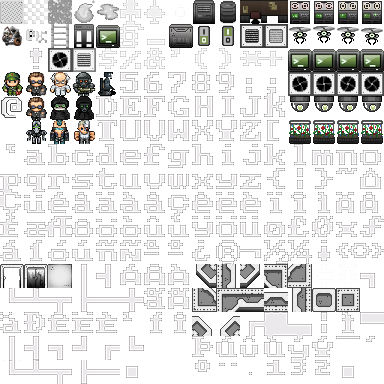
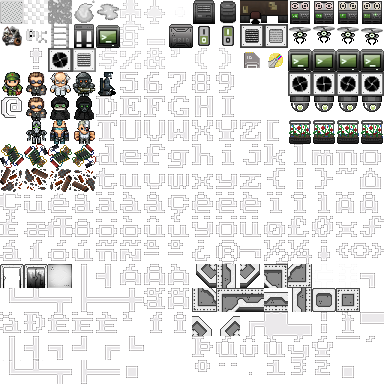
debris and key graphics

Changed region(s): [[0.0, 0.375, 0.25, 0.5], [0.625, 0.125, 0.75, 0.3125]]

diff --git a/src/actor/ai.py b/src/actor/ai.py
@@ -187,11 +187,21 @@ class AI:
 
     @staticmethod
     def pathToActions(path, target, interact=False):
-        actions = [{'TYPE': 'MOVE', 'DIR': path[i] - path[i - 1]}
-                   for i in range(1, len(path))]
+        if not interact:
+            actions = [{'TYPE': 'MOVE', 'DIR': path[i] - path[i - 1]}
+                       for i in range(1, len(path))]
+        elif interact:
+            actions = []
+            for i in range(1, len(path)):
+                if all(path[i] == target):
+                    actions.append({'TYPE': 'USE', 'DIR': path[i] - path[i - 1]})
+                    break
+                actions.append({'TYPE': 'MOVE', 'DIR': path[i] - path[i - 1]})
 
-        if interact:
-            actions.append({'TYPE': 'USE', 'DIR': target - path[-1]})
+#            path.pop()
+            # actions = [{'TYPE': 'MOVE', 'DIR': path[i] - path[i - 1]}
+            #             for i in range(1, len(path) - 1)]
+            # actions.append({'TYPE': 'USE', 'DIR': target - path[-2]})
         return actions
 
 

diff --git a/src/object/item.py b/src/object/item.py
@@ -200,7 +200,6 @@ class Grenade(Explosive):
     def __init__(self, cell=None, carrier=None):
         Explosive.__init__(self, cell, carrier)
 
-        self.char = 235
         self.path = []
 
     def describe(self):
@@ -257,7 +256,7 @@ class Shotgun(Gun):
 
 class Key(Item):
     def __init__(self, cell=None, carrier=None, tier=0):
-        Item.__init__(self, cell, carrier)
+        Item.__init__(self, cell, carrier, char=0x102A)
 
         self.tier = tier
 

diff --git a/src/object/door.py b/src/object/door.py
@@ -110,10 +110,11 @@ class Door(Electronics):
         if type is 'ATTACK':
             self.destroy()
             return 5
-        if self.closed:
-            self.open(actor)
-        else:
-            self.close(actor)
+        elif type is 'USE':
+            if self.closed:
+                self.open(actor)
+            else:
+                self.close(actor)
         return 3
 
     def describe(self):

diff --git a/src/actor/actor.py b/src/actor/actor.py
@@ -70,7 +70,7 @@ class Actor(Object):
     def interactWith(self, map, dir, type=None):
         tile = map.getTile(self.cell.pos + dir)
         if type is 'ATTACK':
-            tile.addEffect(Effect(char='X', time=2))
+            tile.addEffect(Effect(char=0x1025, time=1))
         if len(tile.object) > 0:
             return tile.object[0].interact(self, dir, type)
         return 0

diff --git a/src/object/object.py b/src/object/object.py
@@ -74,8 +74,10 @@ class Object(object):
 
 
 class Debris(Object):
+    CHAR = [0x1070,0x1071,0x1072,0x1073]
+
     def __init__(self, cell=None, obj=None):
-        Object.__init__(self, cell, char=0x1010, color=COLOR['GRAY'])
+        Object.__init__(self, cell, char=rd.choice(Debris.CHAR), color=COLOR['WHITE'])
 
         self.block = [False, False, False]
         self.obj = obj
